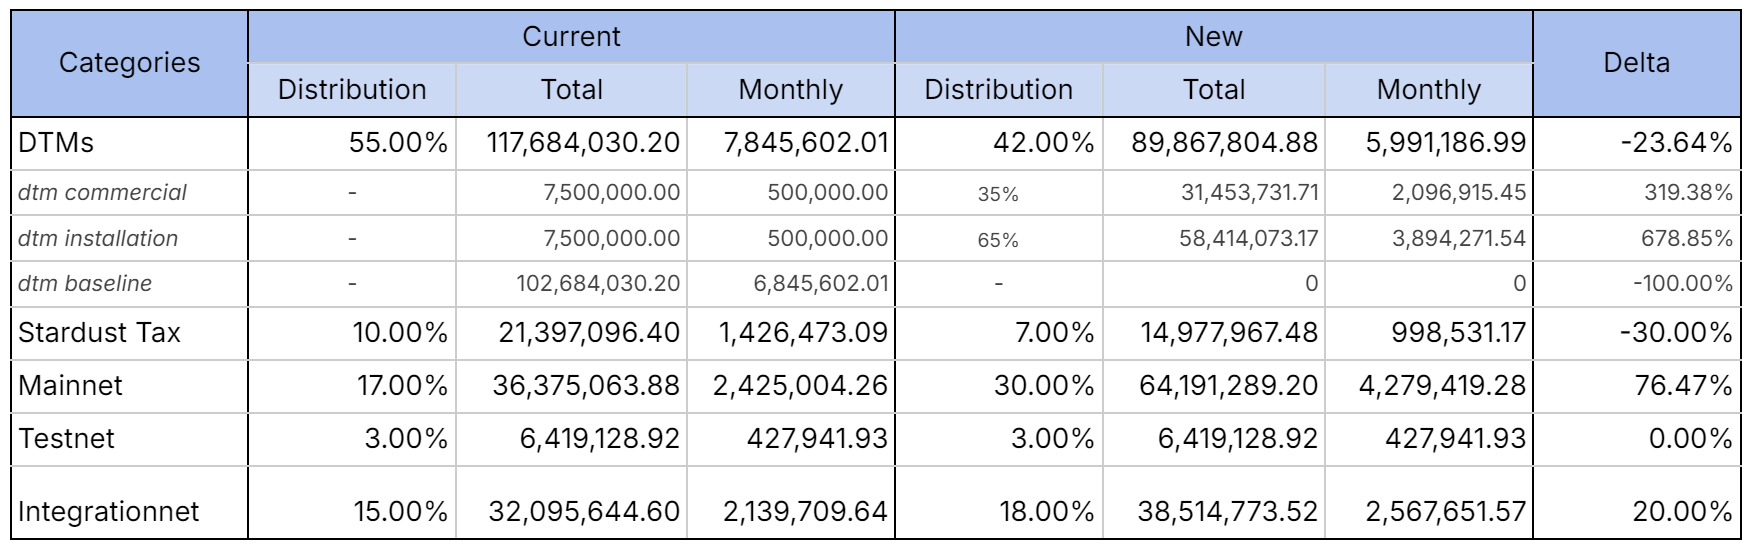
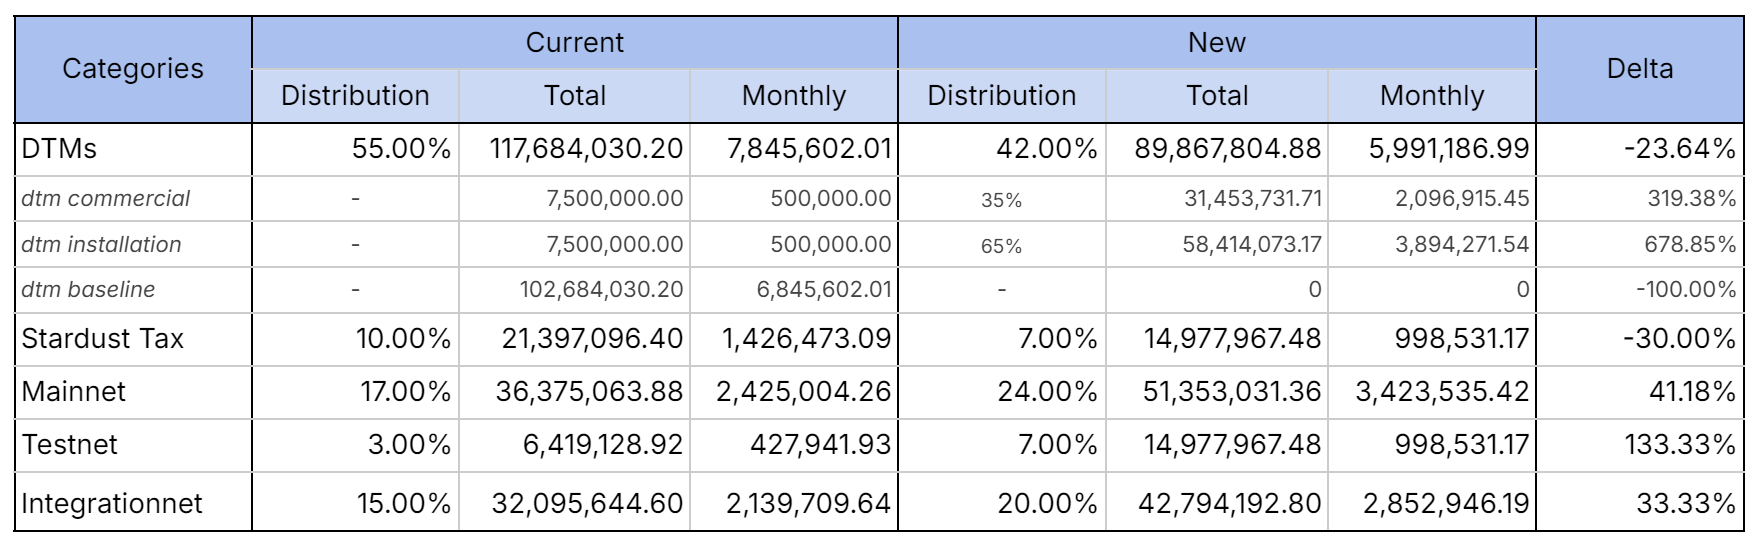
Fixed validator splits on data pool changes

Changed region(s): [[0.0, 0.0, 1.0, 0.9963]]

diff --git a/learn/tools-resources/03-metanomics-litepaper.md b/learn/tools-resources/03-metanomics-litepaper.md
@@ -51,8 +51,9 @@ The overall distribution will change as follows:
 
 * **Data pool bounties:** decrease from 55% to 42%  
 * **Stardust tax:** decrease from 10% to 7%  
-* **Mainnet validator incentives:** increase from 17% to 30%  
-* **Integrationnet validator incentives:** increase from 15% to 18%
+* **Mainnet validator incentives:** increase from 17% to 24%  
+* **Integrationnet validator incentives:** increase from 15% to 20%
+* **Testnet validator incentives:** increase from 3% to 7%  
 
 ##### DTM Bounties
 
